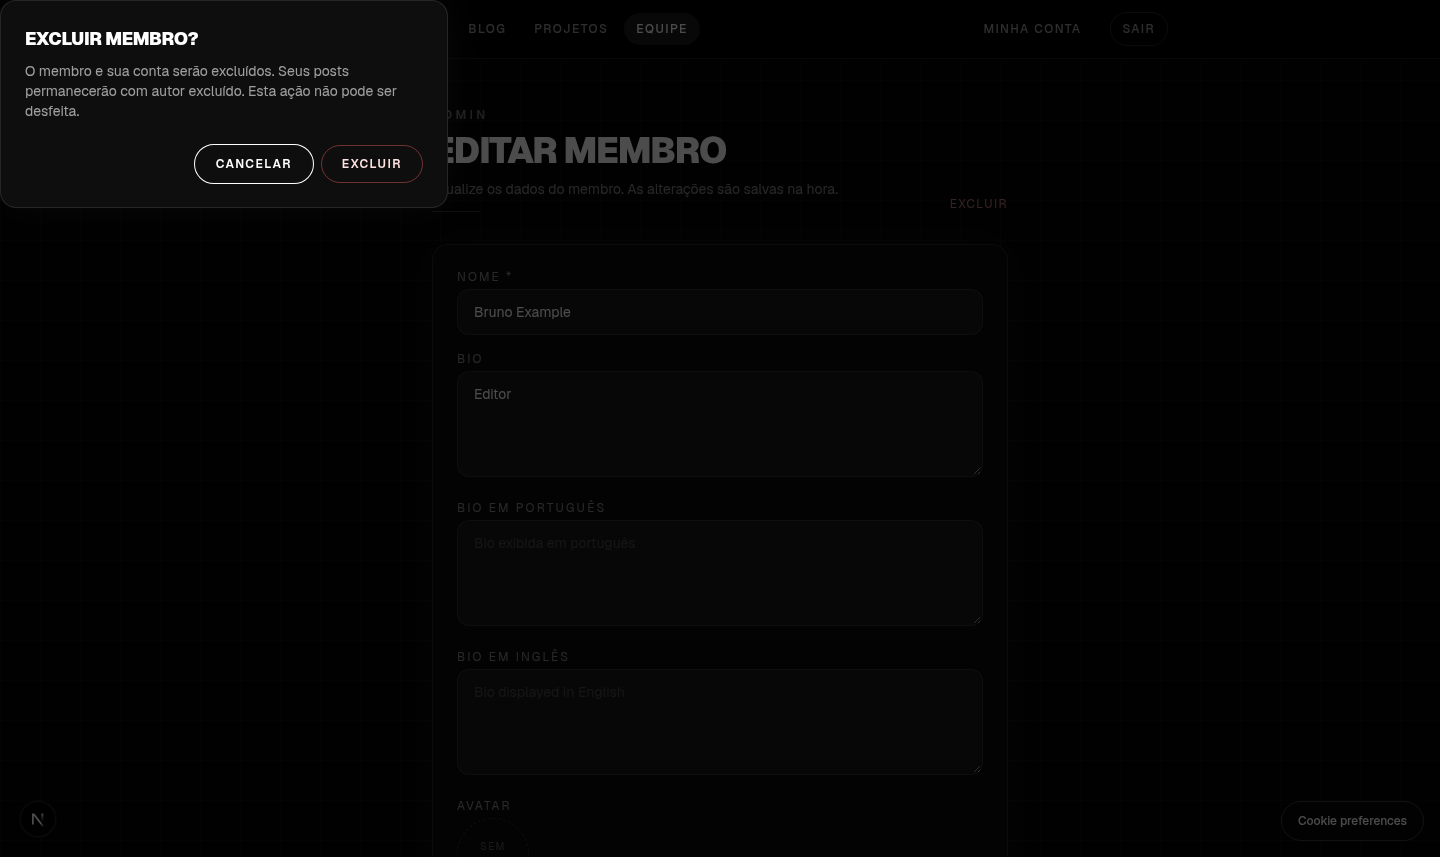
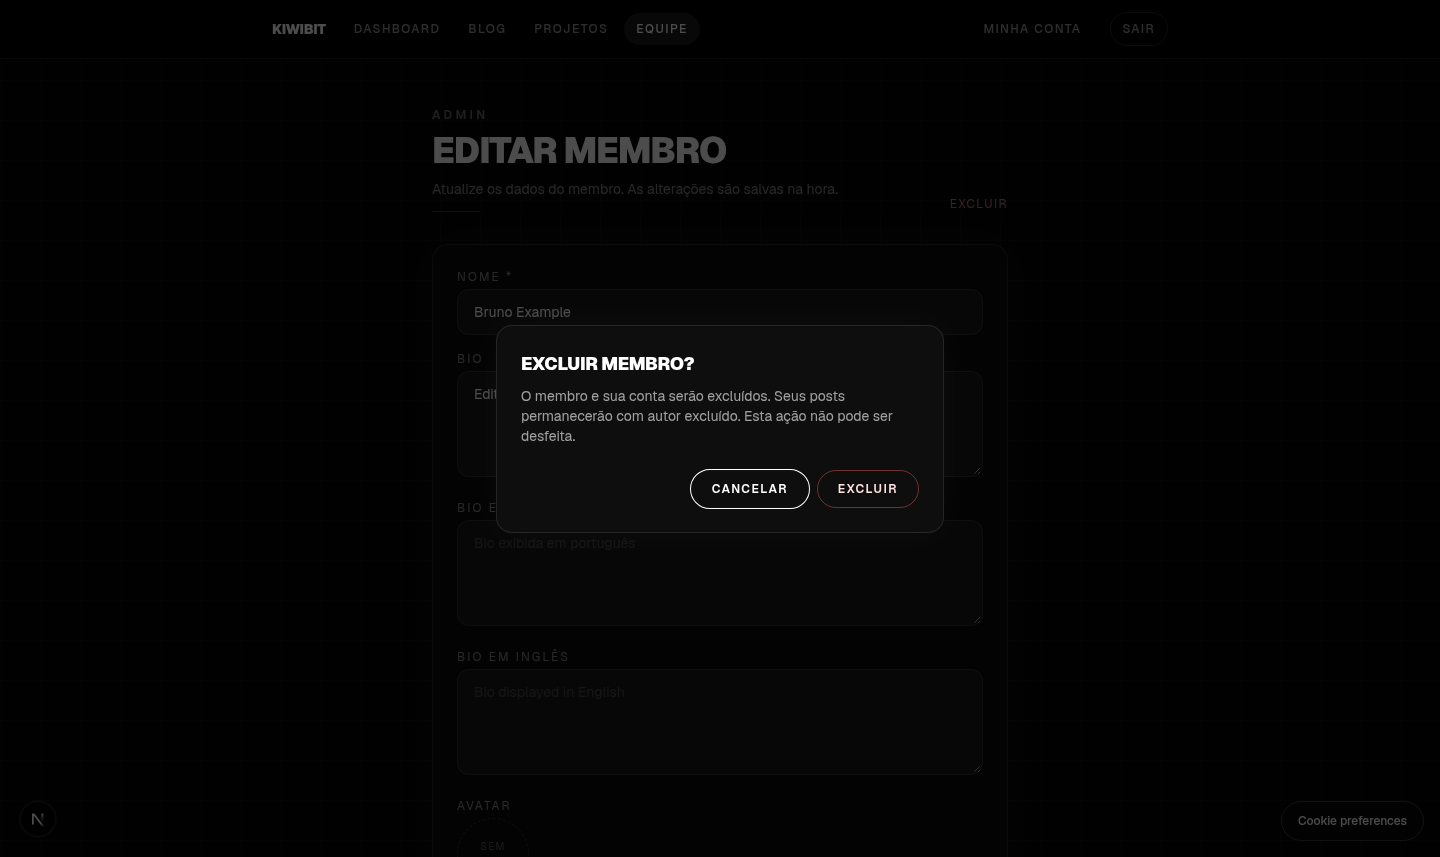
fix(members): protect own role and center confirmation

diff --git a/src/app/api/admin/users/route.spec.ts b/src/app/api/admin/users/route.spec.ts
@@ -412,6 +412,35 @@ describe('PUT /api/admin/users/[id]', () => {
     expect(prisma.user.update).not.toHaveBeenCalled();
   });
 
+  it.each(['admin', 'editor', 'member_manager', 'member'] as const)(
+    'rejects a %s changing their own role',
+    async (role) => {
+      (requirePanelSession as jest.Mock).mockResolvedValue({
+        session: { user: { id: 'uid-2', role } },
+        response: null,
+      });
+      (prisma.user.findUnique as jest.Mock).mockResolvedValue({ ...USER, role });
+      const nextRole = role === 'member' ? 'admin' : 'member';
+      const res = await updateUser(
+        makeReq('http://localhost/api/admin/users/uid-2', { role: nextRole }, 'PUT'),
+        paramsFor('uid-2'),
+      );
+      expect(res.status).toBe(403);
+      expect(prisma.user.update).not.toHaveBeenCalled();
+    },
+  );
+
+  it('allows an unchanged own role when updating account details', async () => {
+    mockMemberAuth();
+    (prisma.user.findUnique as jest.Mock).mockResolvedValue(USER);
+    (prisma.user.update as jest.Mock).mockResolvedValue(USER);
+    const res = await updateUser(
+      makeReq('http://localhost/api/admin/users/uid-2', { role: 'member', name: 'Updated' }, 'PUT'),
+      paramsFor('uid-2'),
+    );
+    expect(res.status).toBe(200);
+  });
+
   it('hashes password when password field is provided', async () => {
     mockAuth();
     (prisma.user.findUnique as jest.Mock).mockResolvedValue(USER);

diff --git a/src/app/(internal)/admin/members/[id]/edit/page.spec.tsx b/src/app/(internal)/admin/members/[id]/edit/page.spec.tsx
@@ -64,6 +64,24 @@ describe('EditMemberPage', () => {
     expect(args.select.user.select.password).toBeUndefined();
   });
 
+  it('does not offer role editing for the signed-in administrator', async () => {
+    (prisma.member.findUnique as jest.Mock).mockResolvedValue({
+      ...MEMBER,
+      user: { id: 'uid-1', name: 'Admin', email: 'admin@test.com', role: 'admin' },
+    });
+    const page = await EditMemberPage({ params: Promise.resolve({ id: 'mid-1' }) });
+    expect(page.props.children[1].props.canChangeRole).toBe(false);
+  });
+
+  it('offers role editing to an administrator managing another account', async () => {
+    (prisma.member.findUnique as jest.Mock).mockResolvedValue({
+      ...MEMBER,
+      user: { id: 'uid-2', name: 'Alice', email: 'alice@test.com', role: 'member' },
+    });
+    const page = await EditMemberPage({ params: Promise.resolve({ id: 'mid-1' }) });
+    expect(page.props.children[1].props.canChangeRole).toBe(true);
+  });
+
   it('redirects a member away from another member profile', async () => {
     (requirePanelPageSession as jest.Mock).mockResolvedValue({
       user: { id: 'uid-member', role: 'member' },

diff --git a/tests/e2e/users.test.ts b/tests/e2e/users.test.ts
@@ -12,6 +12,14 @@ describe('Users CRUD — /api/admin/users', () => {
   const ref = useAdminClient();
   let createdId: string;
 
+  it('rejects changing the signed-in administrator role', async () => {
+    const session = await (await ref.client.get('/api/auth/session')).json();
+    const res = await ref.client.put(`/api/admin/users/${session.user.id}`, { role: 'editor' });
+    expect(res.status).toBe(403);
+    const unchanged = await (await ref.client.get(`/api/admin/users/${session.user.id}`)).json();
+    expect(unchanged.role).toBe('admin');
+  });
+
   // ── LIST ──────────────────────────────────────────────────────────────────
   it('GET /api/admin/users returns a paginated list', async () => {
     await expectPaginatedList(await ref.client.get('/api/admin/users'));

diff --git a/src/shared/ui/confirm-dialog.tsx b/src/shared/ui/confirm-dialog.tsx
@@ -45,7 +45,7 @@ export function ConfirmDialog({
         event.preventDefault();
         if (!isBusy) onCancel();
       }}
-      className="card-glow max-w-md rounded-2xl border border-white/10 bg-[#0e0e0e] p-6 text-white backdrop:bg-black/70"
+      className="card-glow m-auto max-h-[calc(100dvh-2rem)] w-[calc(100%-2rem)] max-w-md overflow-y-auto rounded-2xl border border-white/10 bg-[#0e0e0e] p-6 text-white backdrop:bg-black/70"
     >
       <h2 className="text-lg font-black uppercase tracking-[-0.02em]">{title}</h2>
       {description && <p className="mt-2 text-sm text-white/60">{description}</p>}

diff --git a/src/app/api/admin/users/[id]/route.ts b/src/app/api/admin/users/[id]/route.ts
@@ -83,6 +83,14 @@ export async function PUT(request: Request, { params }: Params) {
   const fields = validateUpdateUserFields(body, session.user.role);
   if (fields.failure) return failureResponse(fields.failure);
 
+  if (
+    existing.id === session.user.id &&
+    fields.data.role !== undefined &&
+    fields.data.role !== existing.role
+  ) {
+    return apiError('FORBIDDEN', 'You cannot change your own role.', 403);
+  }
+
   const demotesAnAdmin =
     existing.role === 'admin' && fields.data.role !== undefined && fields.data.role !== 'admin';
   if (demotesAnAdmin && (await isLastAdmin())) {

diff --git a/src/app/(internal)/admin/members/[id]/edit/page.tsx b/src/app/(internal)/admin/members/[id]/edit/page.tsx
@@ -84,7 +84,7 @@ export default async function EditMemberPage({ params }: Params) {
         memberId={member.id}
         account={member.user}
         canAssignPrivileged={session.user.role === 'admin'}
-        canChangeRole={!isMember}
+        canChangeRole={!isMember && member.user?.id !== session.user.id}
       />
       {!isMember && (
         <>
